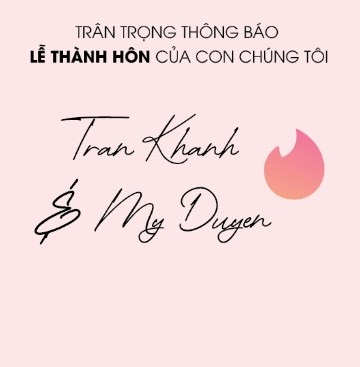
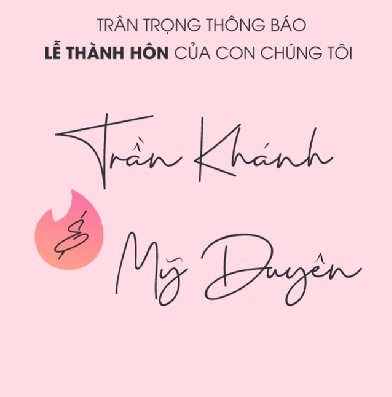
update

diff --git a/_layouts/main.html b/_layouts/main.html
@@ -61,9 +61,11 @@ layout: default
             <h1 class="subtitle">Lễ Thành Hôn</h1>
             <h2 class="title"> Khánh & Duyên</h2>
             <h4 class="subtitle tempatngaycuoi">
+              <span class="subtitle tempatngaycuoi pressed">Đồng Tháp</span>
+            </br>
                 Thứ 7, 01 Tháng 10, 2022
                 </br>
-                Trại tôm giống Minh Quân, Đồng Tháp, Việt Nam
+                Trại tôm giống Minh Quân, Đồng Tháp
                 </br>
                 Việt Nam
               

diff --git a/assets/css/menikah.css b/assets/css/menikah.css
@@ -680,7 +680,7 @@ body.preloader-site {
 	bottom: 7%;
 	right:40px;
   padding: 1rem;
-	background-color:#c77a7b;
+	background-color:#6cc751;
 	color:#FFF;
 	border-radius:50px;
 	text-align:center;

diff --git a/dongthap/assets/css/menikah.css b/dongthap/assets/css/menikah.css
@@ -675,7 +675,7 @@ body.preloader-site {
   padding: 1rem;
 	bottom: 7%;
 	right:40px;
-	background-color:#c77a7b;
+	background-color:#6cc751;
 	color:#FFF;
 	border-radius:50px;
 	text-align:center;

diff --git a/tayninh/assets/css/menikah.css b/tayninh/assets/css/menikah.css
@@ -677,7 +677,7 @@ body.preloader-site {
   padding: 1rem;
 	bottom: 7%;
 	right:40px;
-	background-color:#c77a7b;
+	background-color:#6cc751;
 	color:#FFF;
 	border-radius:50px;
 	text-align:center;
